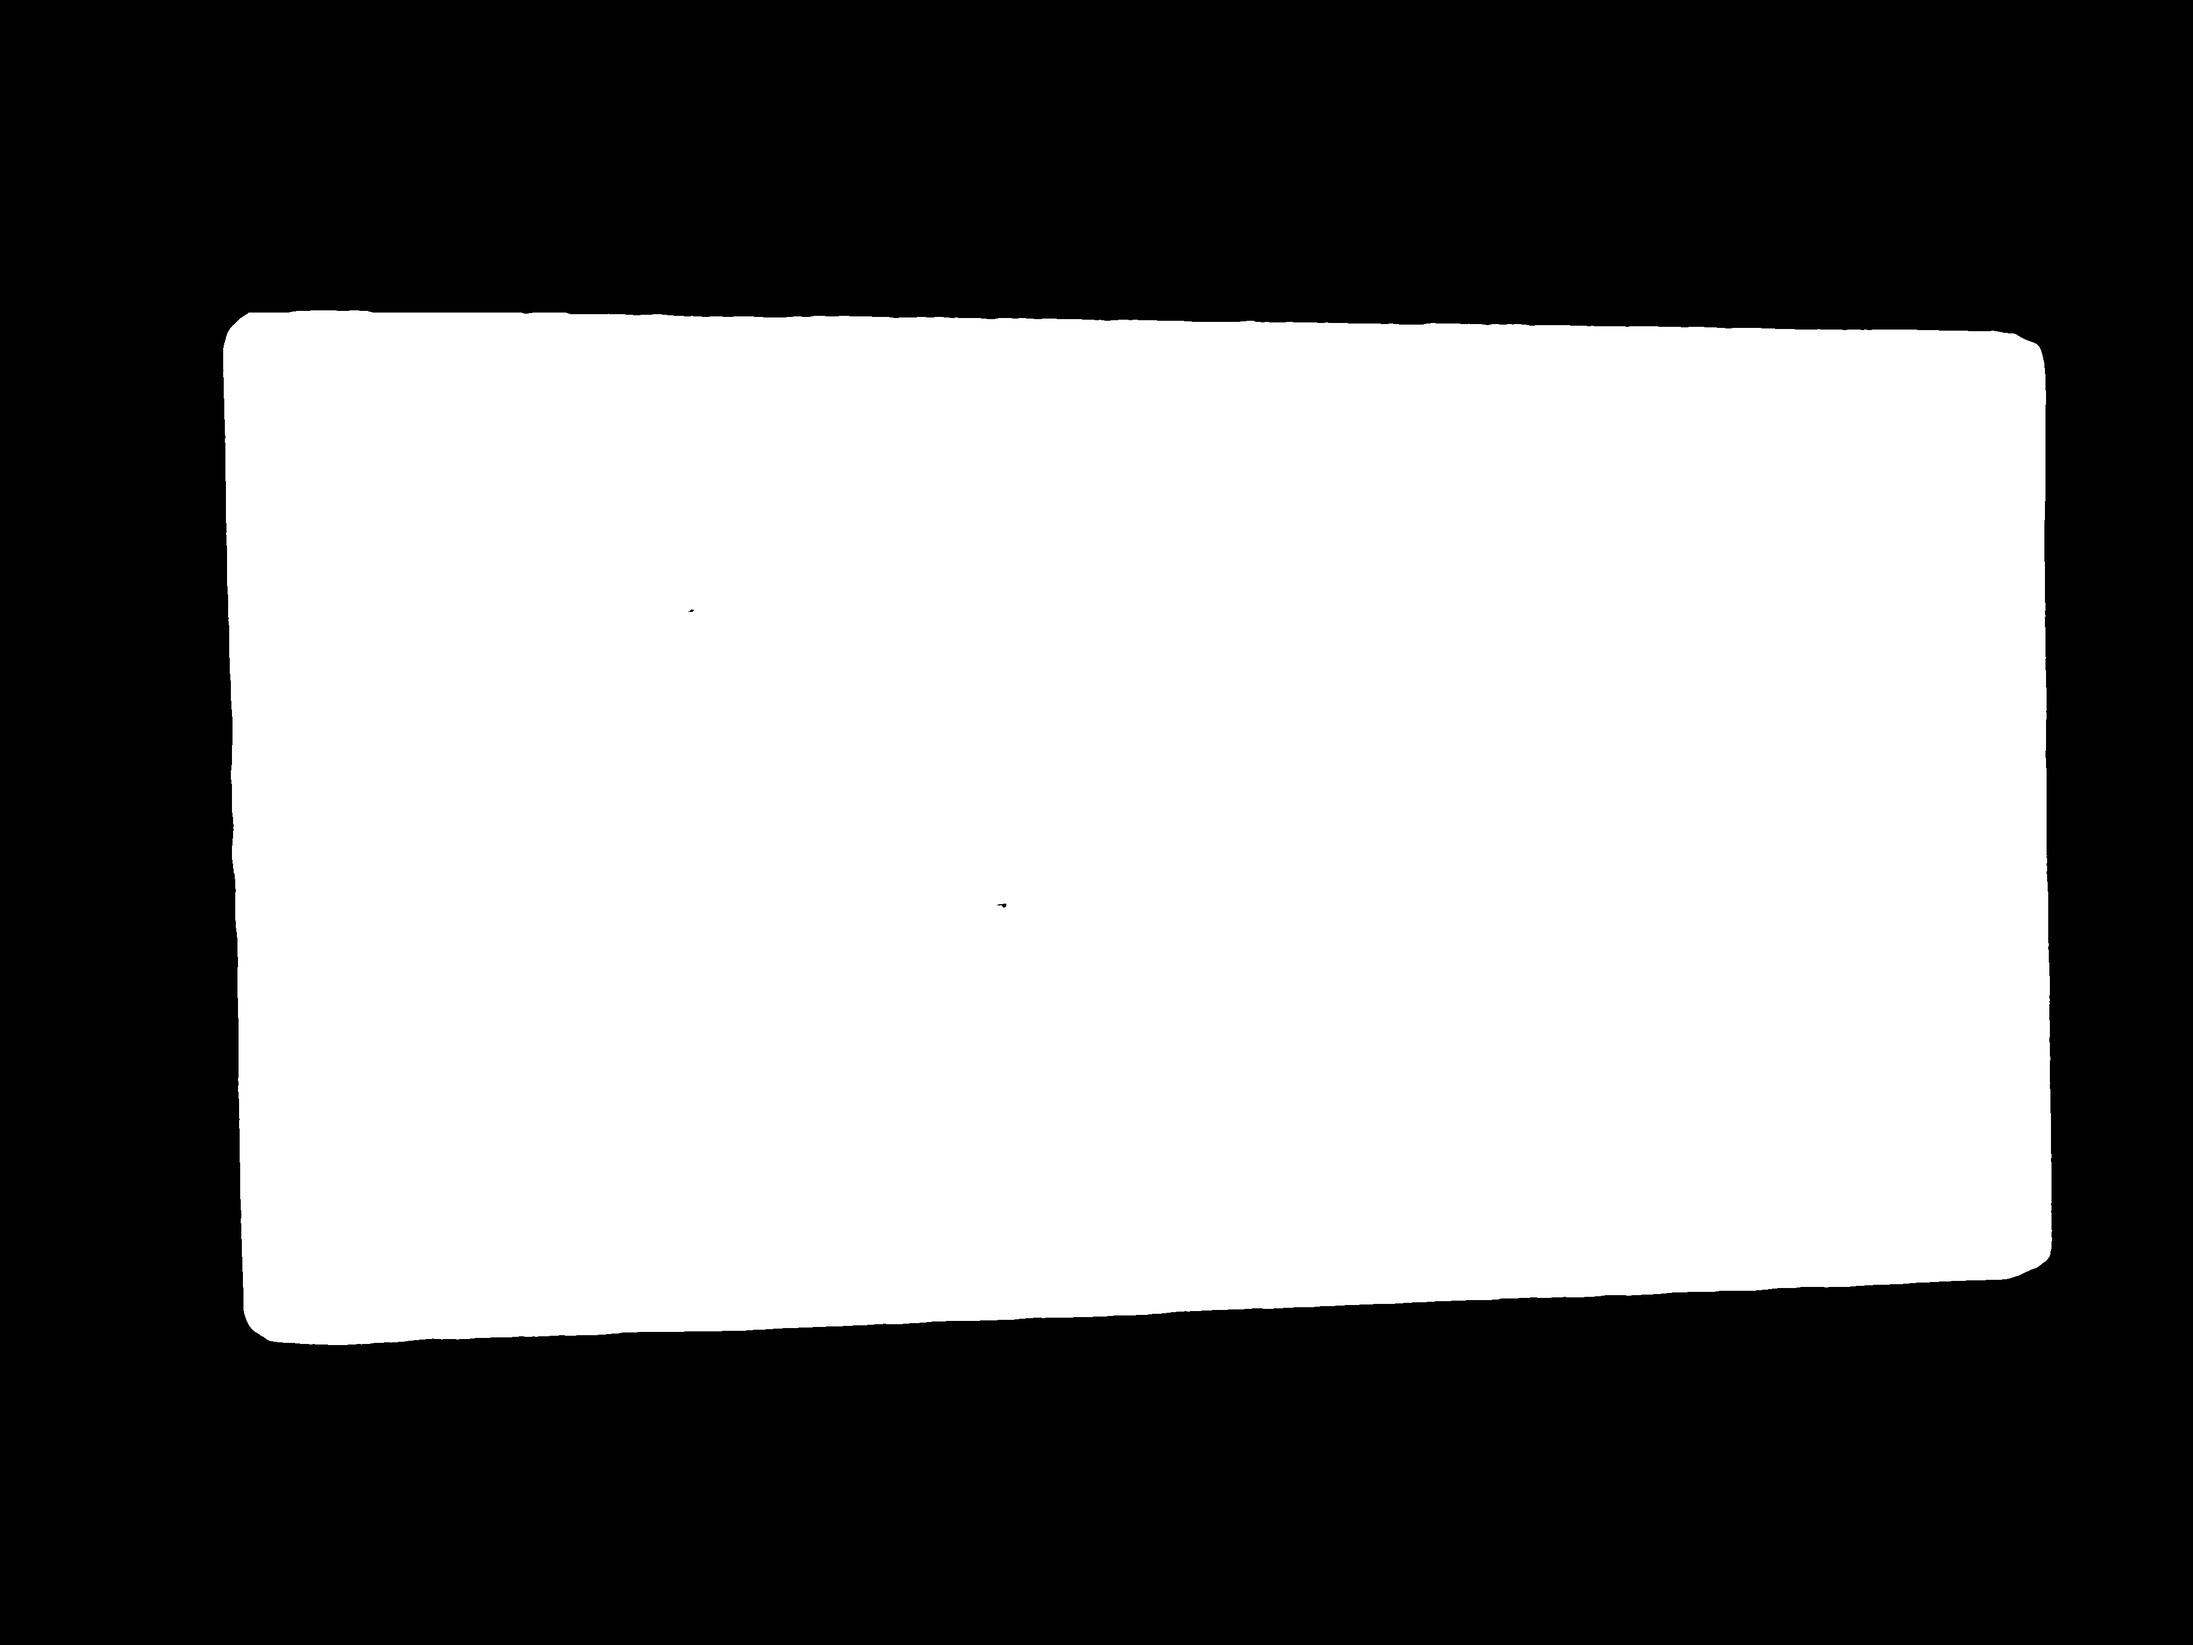
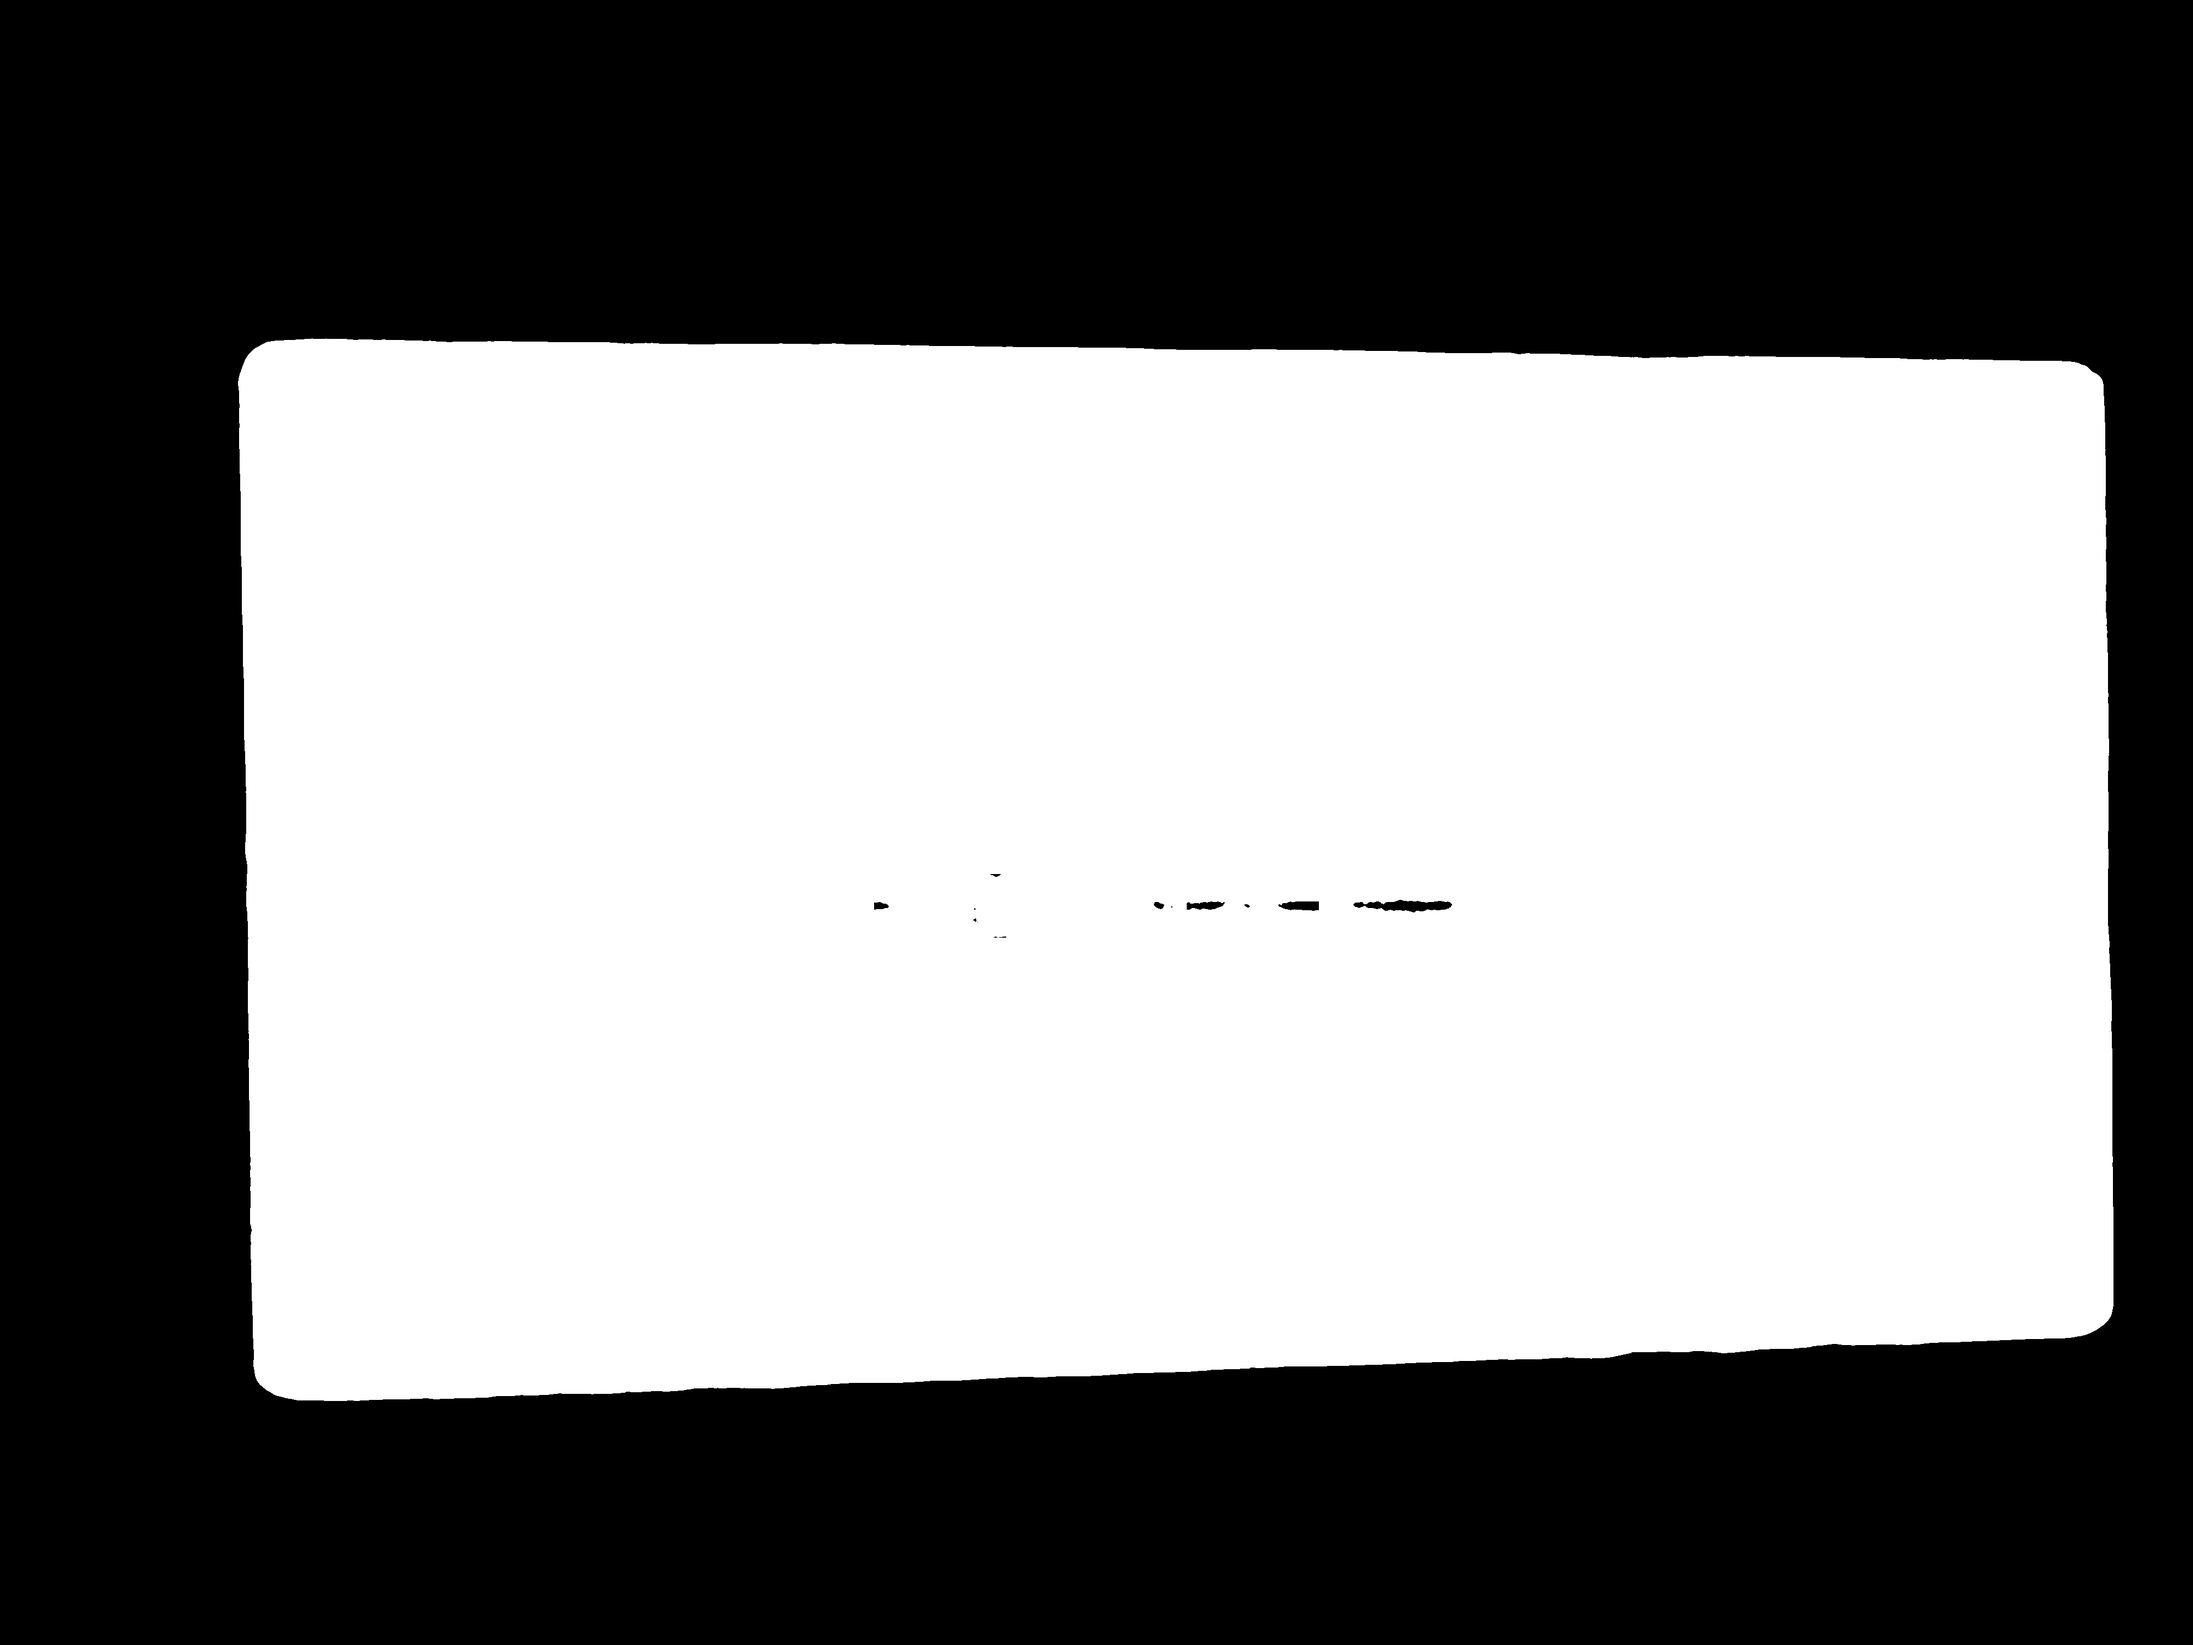
参数优化

Changed region(s): [[0.093, 0.186, 0.9612, 0.868], [0.6202, 0.527, 0.6512, 0.558]]

diff --git a/Registrating.cpp b/Registrating.cpp
@@ -145,6 +145,34 @@ void Registrator::ClockwiseSortPoints(Point2f pts[], int ptsSize)
 }
 
 
+//输入一个数组，返回他是否有4个不同顶点
+bool Registrator::has4Points(vector<Point>& pts, int th_x, int th_y) {
+	//用来表示有多少个点
+	int pointNum = pts.size();
+	ClockwiseSortPoints(pts);
+	for (int i = 1; i < pts.size(); ++i) {
+		//有两点挨在一起,pointNum-1
+		if (abs(pts[i - 1].x - pts[i].x) < th_x && abs(pts[i - 1].y - pts[i].y) < th_y)
+			--pointNum;
+	}
+	if (pointNum >= 4) return true;
+	return false;
+}
+bool Registrator::has4Points(Point2f pts[], int ptsSize, int th_x, int th_y) {
+	//用来表示有多少个点
+	int pointNum = ptsSize;
+	ClockwiseSortPoints(pts, ptsSize);
+	for (int i = 1; i < ptsSize; ++i) {
+		//有两点挨在一起,pointNum-1
+		if (abs(pts[i - 1].x - pts[i].x) < th_x && abs(pts[i - 1].y - pts[i].y) < th_y)
+			--pointNum;
+	}
+	if (pointNum >= 4) return true;
+	return false;
+}
+
+
+
 
 //以下为画多边形过程
 //以下为画多边形过程
@@ -194,6 +222,8 @@ void Registrator::CntPoint(Mat& srcImage, Mat& dstImage, vector<vector<Point>>& 
 	Mat midImage;//临时变量和目标图的定义
 	//vector<vector<Point>> pts(1);//存放交点
 
+	pts[0].clear();
+
 	//【2】进行边缘检测和转化为灰度图
 	Canny(srcImage, midImage, 50, 200, 3);//进行一此canny边缘检测
 	cvtColor(midImage, dstImage, COLOR_GRAY2BGR);//转化边缘检测后的图为灰度图
@@ -214,7 +244,7 @@ void Registrator::CntPoint(Mat& srcImage, Mat& dstImage, vector<vector<Point>>& 
 		pt2.x = cvRound(x0 - 1000 * (-b));
 		pt2.y = cvRound(y0 - 1000 * (a));
 		//画线
-		line(dstImage, pt1, pt2, Scalar(55, 100, 195), 1, LINE_AA);
+		line(dstImage, pt1, pt2, Scalar(55, 100, 195), 3, LINE_AA);
 		//两两求交点
 		for (size_t j = i + 1; j < lines.size(); ++j)
 		{
@@ -235,7 +265,7 @@ void Registrator::intoPoly(Mat& dstImage, vector<vector<Point>>& pts)
 	ClockwiseSortPoints(pts[0]);
 	dstImage = Mat::zeros(Size(dstImage.size()), CV_8UC3);
 	fillPoly(dstImage, pts, Scalar(255, 255, 255));
-	mkdirAndImwrite("1_1.png", dstImage);
+	mkdirAndImwrite("srcPloy.png", dstImage);
 
 
 }
@@ -252,14 +282,14 @@ void Registrator::intoPoly(Mat& dstImage, vector<vector<Point>>& pts)
 
 //从前到后分别为变换矩阵，原图，二值图，结果图，中间图1,2，参照图，flagM表示是否直接用传进来的变换矩阵为1用,succeed表示是否失败过，为1表示失败过要变更参数
 
-bool Registrator::Registrating1Pic(Mat& M, String FnSrc, String fnImg1, String FnFi, bool flagM, bool failed, String FnMid1, String FnMid2, String fnRefImg)
+bool Registrator::Registrating1Pic(Mat& M, String FnSrc, String fnBinImg, String FnFi, bool flagM, bool failed, String FnMid1, String FnMid2, String fnRefImg)
 {
 	//用于记录失败的图片
 	ofstream failedImg; failedImg.open("failedImg.txt", ofstream::app);
 	//IMG1:二值图，refimg：参考二值图，src：原图，dst：结果图
-	Mat Img1 = imread(fnImg1), refImg = imread(fnRefImg), src = imread(FnSrc), dst(src.size(), CV_8UC3);
+	Mat binImg = imread(fnBinImg), refImg = imread(fnRefImg), src = imread(FnSrc), dst(src.size(), CV_8UC3);
 	//没有二值图(png)返回
-	if (Img1.empty()) {
+	if (binImg.empty()) {
 		return 1;
 	}
 	resize(refImg, refImg, Size(src.cols, src.rows));
@@ -271,13 +301,14 @@ bool Registrator::Registrating1Pic(Mat& M, String FnSrc, String fnImg1, String F
 
 		//1,2
 		//去除小区域
-		RemoveSmall(Img1, midImg);
+		RemoveSmall(binImg, midImg);
 		try {
 			//获得多边形顶点1（重复3次减少误差默认failed ? CntPoint(midImg, Img1, pts, 15, CV_PI / 240, 800) : CntPoint(midImg, Img1, pts);
-			failed ? CntPoint(midImg, Img1, pts, 12, CV_PI / 180, src.cols * 1000 / 4096) : CntPoint(midImg, Img1, pts, 1, CV_PI / 360, src.cols * 450 / 4096);
+			failed ? CntPoint(midImg, binImg, pts, 12, CV_PI / 180, src.cols * 1000 / 4096) : CntPoint(midImg, binImg, pts, 1, CV_PI / 360, src.cols * 450 / 4096);
+			mkdirAndImwrite("srcLines0.png", binImg);//存储霍夫变换直线识别情况
 			std::cout << pts[0] << std::endl;
 			//由顶点填充多边形1
-			intoPoly(Img1, pts);
+			intoPoly(binImg, pts);
 		}
 		catch (...) {
 			//若已经失败过，记录文件名到txt文件方便以后处理
@@ -294,7 +325,14 @@ bool Registrator::Registrating1Pic(Mat& M, String FnSrc, String fnImg1, String F
 		//3.1获取待配准图的顶点，存入0.png
 		pts = vector<vector<Point>>(1);
 		//获得填充好的矩形的顶点
-		CntPoint(Img1, midImg, pts, 7, CV_PI / 180, 700);
+		//CntPoint(binImg, midImg, pts, 7, CV_PI / 180, 700);
+		CntPoint(binImg, midImg, pts, 1, CV_PI / 360, src.cols * 450 / 4096);
+		if (!has4Points(pts[0], src.cols / 4, src.rows / 4))
+			CntPoint(binImg, midImg, pts, 1, CV_PI / 360, src.cols * 350 / 4096);
+		if (!has4Points(pts[0], src.cols / 4, src.rows / 4))
+			CntPoint(binImg, midImg, pts, 1, CV_PI / 360, src.cols * 250 / 4096);
+		if (!has4Points(pts[0], src.cols / 4, src.rows / 4))
+			CntPoint(binImg, midImg, pts, 7, CV_PI / 180, src.cols * 700 / 4096);
 		std::cout << pts[0] << std::endl;
 		mkdirAndImwrite(FnMid1, midImg);//中间图1
 		if (pts[0].size() < 4 || pts[0].size() > 100) {
@@ -322,7 +360,8 @@ bool Registrator::Registrating1Pic(Mat& M, String FnSrc, String fnImg1, String F
 		for (int i = 0; i < 4; ++i) {
 			rectPts2F[i] = rectPts[0][i];
 			std::cout << pts2F[i] << std::endl;
-			if (pts2F[i] == Point2f(0, 0)) {
+			//如果有两个点太接近或不足4个点则失败
+			if ((pts2F[i] == Point2f(0, 0)) || ((i > 0) && (abs(pts2F[i - 1].x - pts2F[i].x) < (src.cols / 4) && abs(pts2F[i - 1].y - pts2F[i].y) < (src.rows / 4)))) {
 				//若已经失败过，记录文件名到txt文件方便以后处理
 				if (failed)
 					failedImg << string(FnSrc.c_str()) << std::endl;
@@ -342,7 +381,7 @@ bool Registrator::Registrating1Pic(Mat& M, String FnSrc, String fnImg1, String F
 	Mat maskedDst;
 	dst.copyTo(maskedDst, refImg);//抠图
 	//测试用，如果失败过在图片上标记
-	if (failed) putText(maskedDst, "2222", Point(1600, 900), FONT_HERSHEY_TRIPLEX, 10, Scalar(0, 0, 255));
+	//if (failed) putText(maskedDst, "2222", Point(1600, 900), FONT_HERSHEY_TRIPLEX, 10, Scalar(0, 0, 255));
 	mkdirAndImwrite(FnFi, maskedDst);//最终结果
 	failedImg.close();
 
@@ -392,7 +431,7 @@ void Registrator::on_mouse(int event, int x, int y, int flags, void* ustc) //eve
 }
 
 
-bool Registrator::Registrating1PicSemi(Mat& M, String FnSrc, String fnImg1, String FnFi, bool flagM, bool succeed, String FnMid1, String FnMid2, String fnRefImg)
+bool Registrator::Registrating1PicSemi(Mat& M, String FnSrc, String fnBinImg, String FnFi, bool flagM, bool succeed, String FnMid1, String FnMid2, String fnRefImg)
 {
 	//IMG1:二值图，refimg：参考二值图，src：原图，dst：结果图
 	Mat refImg = imread(fnRefImg), src = imread(FnSrc), dst(src.size(), CV_8UC3);

diff --git a/Registrating.h b/Registrating.h
@@ -64,6 +64,10 @@ private:
 	static void ClockwiseSortPoints(Point2f pts[], int ptsSize);
 	static double KAngle(const Point& a, const Point& center);
 
+	//输入一个数组，返回他是否有4个不同顶点,后两个参数分别是两个点被判断为至少需要有的x，y轴距离
+	static bool has4Points(vector<Point>& pts, int th_x, int th_y);
+	static bool has4Points(Point2f pts[], int ptsSize, int th_x, int th_y);
+
 	//intoPoly
 	static int RemoveSmall(Mat& src, Mat& dst);
 	static void SolvEqu(double a, double b, double c, double d, double e, double f, double& x, double& y);
@@ -75,10 +79,10 @@ private:
 
 	//Registrating
 	//默认bool Registrating1Pic(Mat& M, String FnSrc = "005.jpg", String fnImg1 = "1.png", String FnFi = "fi.png", bool flagM = false, bool succeed = false, String FnMid1 = "0.png", String FnMid2 = "01.png", String fnRefImg = "refImg.png");
-	static bool Registrating1Pic(Mat& M, String FnSrc = "005.jpg", String fnImg1 = "1.png", String FnFi = "fi.png", bool flagM = false, bool succeed = false, String FnMid1 = "0.png", String FnMid2 = "01.png", String fnRefImg = "refImg.png");
+	static bool Registrating1Pic(Mat& M, String FnSrc = "005.jpg", String fnBinImg = "1.png", String FnFi = "fi.png", bool flagM = false, bool succeed = false, String FnMid1 = "srcLines.png", String FnMid2 = "refLines.png", String fnRefImg = "refImg.png");
 	static void renameRoot(String srcPattern);
 	static void on_mouse(int event, int x, int y, int flags, void* ustc);
-	static bool Registrating1PicSemi(Mat& M, String FnSrc = "005.jpg", String fnImg1 = "1.png", String FnFi = "fi.png", bool flagM = false, bool succeed = false, String FnMid1 = "0.png", String FnMid2 = "01.png", String fnRefImg = "refImg.png");
+	static bool Registrating1PicSemi(Mat& M, String FnSrc = "005.jpg", String fnBinImg = "1.png", String FnFi = "fi.png", bool flagM = false, bool succeed = false, String FnMid1 = "srcLines.png", String FnMid2 = "refLines.png", String fnRefImg = "refImg.png");
 
 	bool is_paused;
 };
